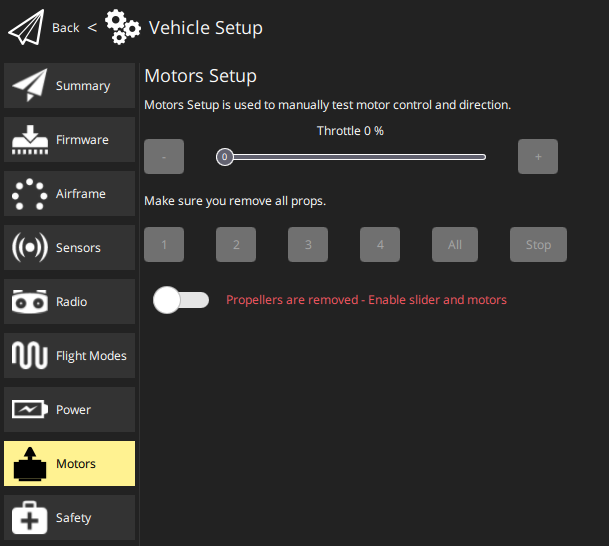
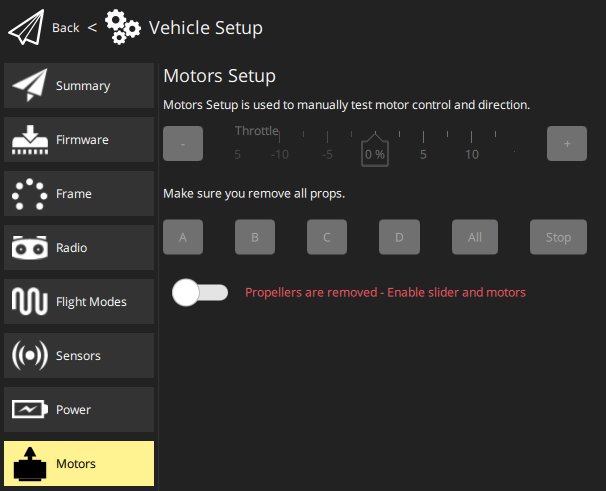
Use of ValueSlider instead of QGCSlider

Changed region(s): [[0.2376, 0.1222, 0.9802, 0.6415], [0.0, 0.1222, 0.2673, 1.0], [0.0, 0.0, 0.4455, 0.0916]]

diff --git a/src/AutoPilotPlugins/APM/APMMotorComponent.qml b/src/AutoPilotPlugins/APM/APMMotorComponent.qml
@@ -43,13 +43,6 @@ SetupPage {
 
             Row {
                 Column {
-
-                    QGCLabel {
-                        id:                         labelThrottle
-                        anchors.horizontalCenter:   parent.horizontalCenter
-                        text:                       qsTr("Throttle") + " " + sliderThrottle.value + " " + qsTr("%")
-                    }
-
                     Row {
                         id:         motorSlider
                         enabled:    safetySwitch.checked
@@ -57,29 +50,27 @@ SetupPage {
                         
                         QGCButton {
                             anchors.verticalCenter:     parent.verticalCenter
-                            id:         minusMinusButton
+                            id:         minusButton
                             text:       qsTr("-")
-                            onClicked: sliderThrottle.value-=1
+                            onClicked: sliderThrottle.setValue(sliderThrottle.value-1)
                         }
 
-                        QGCSlider {
-                            id:                         sliderThrottle
-                            width:                      ScreenTools.defaultFontPixelHeight * _sliderWidth
-                            orientation:                Qt.Horizontal
-                            anchors.verticalCenter:     parent.verticalCenter
-                            from:                       0
-                            to:                         100
-                            stepSize:                   1
-                            value:                      0
-                            live:                       false
-                            displayValue:               true
+                        ValueSlider {
+                            id:                 sliderThrottle
+                            width:              motorButtons.width - minusButton.width - plusButton.width - ScreenTools.defaultFontPixelWidth * 4 * 2
+                            label:              qsTr("Throttle")
+                            from:               0
+                            to:                 100
+                            majorTickStepSize:  5
+                            decimalPlaces: 0
+                            unitsString: qsTr("%")
                         }
 
                         QGCButton {
                             anchors.verticalCenter:     parent.verticalCenter
                             id:         plusButton
                             text:       qsTr("+")
-                            onClicked: sliderThrottle.value+=1
+                            onClicked: sliderThrottle.setValue(sliderThrottle.value+1)
                         }
                     } // Row
                 } // Column
@@ -139,7 +130,7 @@ SetupPage {
                     id: safetySwitch
                     onClicked: {
                         if (!checked) {
-                            sliderThrottle.value = 0
+                            sliderThrottle.setValue(0);
                         }
                     }
                 }

diff --git a/src/AutoPilotPlugins/Common/MotorComponent.qml b/src/AutoPilotPlugins/Common/MotorComponent.qml
@@ -43,13 +43,6 @@ SetupPage {
 
             Row {
                 Column {
-
-                    QGCLabel {
-                        id:                         labelThrottle
-                        anchors.horizontalCenter:   parent.horizontalCenter
-                        text:                       qsTr("Throttle") + " " + sliderThrottle.value + " " + qsTr("%")
-                    }
-
                     Row {
                         id:         motorSlider
                         enabled:    safetySwitch.checked
@@ -57,29 +50,27 @@ SetupPage {
                         
                         QGCButton {
                             anchors.verticalCenter:     parent.verticalCenter
-                            id:         minusMinusButton
+                            id:         minusButton
                             text:       qsTr("-")
-                            onClicked: sliderThrottle.value-=1
+                            onClicked: sliderThrottle.setValue(sliderThrottle.value-1)
                         }
 
-                        QGCSlider {
-                            id:                         sliderThrottle
-                            width:                      ScreenTools.defaultFontPixelHeight * _sliderWidth
-                            orientation:                Qt.Horizontal
-                            anchors.verticalCenter:     parent.verticalCenter
-                            from:                       0
-                            to:                         100
-                            stepSize:                   1
-                            value:                      0
-                            live:                       false
-                            displayValue:               true
+                        ValueSlider {
+                            id:                 sliderThrottle
+                            width:              motorButtons.width - minusButton.width - plusButton.width - ScreenTools.defaultFontPixelWidth * 4 * 2
+                            label:              qsTr("Throttle")
+                            from:               0
+                            to:                 100
+                            majorTickStepSize:  5
+                            decimalPlaces: 0
+                            unitsString: qsTr("%")
                         }
 
                         QGCButton {
                             anchors.verticalCenter:     parent.verticalCenter
                             id:         plusButton
                             text:       qsTr("+")
-                            onClicked: sliderThrottle.value+=1
+                            onClicked: sliderThrottle.setValue(sliderThrottle.value+1)
                         }
                     } // Row
                 } // Column
@@ -139,7 +130,7 @@ SetupPage {
                     id: safetySwitch
                     onClicked: {
                         if (!checked) {
-                            sliderThrottle.value = 0
+                            sliderThrottle.setValue(0);
                         }
                     }
                 }
